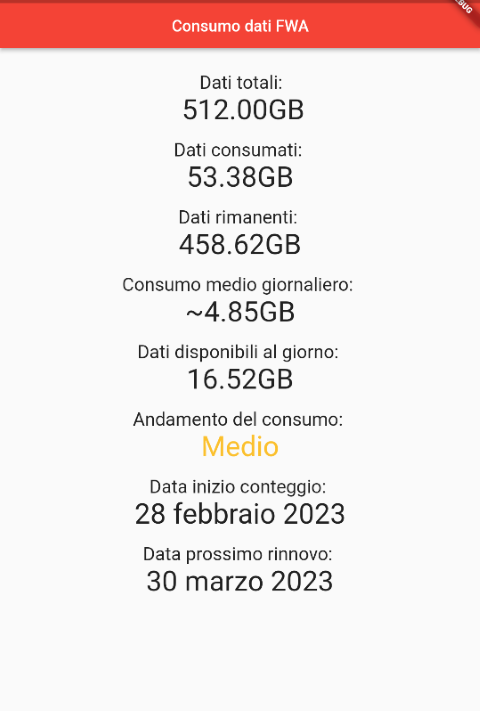
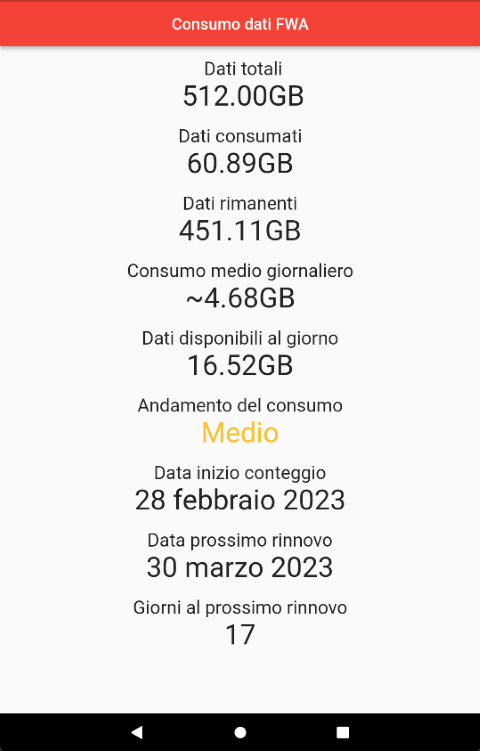
updated README

Changed region(s): [[0.0, 0.0, 1.0, 0.8664], [0.0, 0.9283, 1.0, 1.0]]

diff --git a/README.md b/README.md
@@ -6,21 +6,22 @@ App android per controllare la quantità di GB residui fino al successivo rinnov
 
 Collegarsi alla rete WiFi della vostra Vodafone Station FWA e aprire l'app. Quest'ultima vi mostrerà:
 + La quantità di GB totali
-+ La quantità di GB utilizzati
++ La quantità di GB consumati
 + La quantità di GB rimanenti
 + La quantità di GB utilizzati in media per giorno 
 + La quantità di GB utilizzabili al giorno
 + Alcuni consigli sul consumo per arrivare al prossimo rinnovo
 + La data di inzio del conteggio
 + La data del prossimo rinnovo
++ Giorni mancanti al prossimo rinnovo
 
 Per refreshare la pagina, fare swipe down.
 
 ## Screenshot app
 Pagina inziale dell'app dove vengono mostrati tutti i dati
 
-![Pagina iniziale con i dati](imgs/MainPage.png "Pagina iniziale con i dati")
+![Pagina iniziale con i dati](fwa_data_consumption/imgs/MainPage.png "Pagina iniziale con i dati")
 
 Pagina iniziale quando la connessione è assente oppure non si è connessi alla rete WiFi della Vodafone Station FWA
 
-![Pagina assenza di connessione](imgs/MainScreenNoConnection.png "Pagina 2")
+![Pagina assenza di connessione](fwa_data_consumption/imgs/MainScreenNoConnection.png "Pagina 2")
